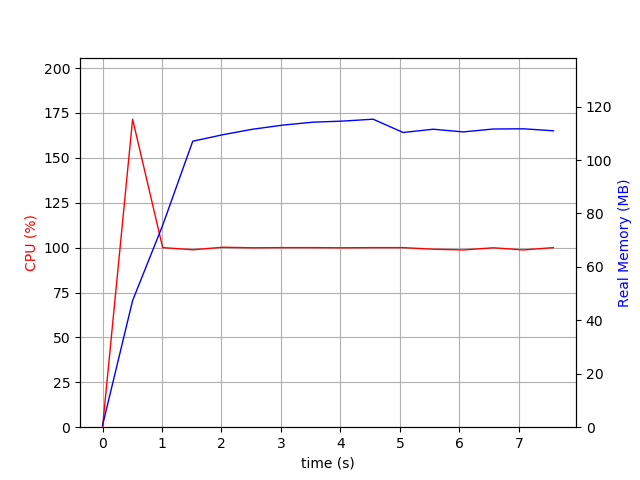
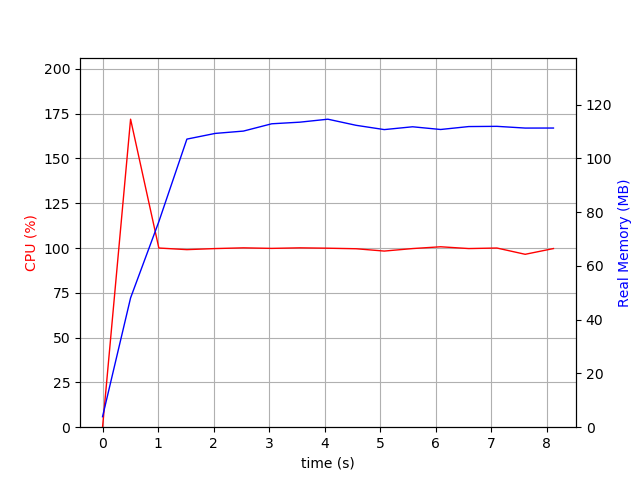
adapt spectrum_1d

diff --git a/benchmarks/spectrum_1d.py b/benchmarks/spectrum_1d.py
@@ -7,9 +7,9 @@ import yaml
 from astropy.coordinates import SkyCoord, Angle
 from regions import CircleSkyRegion
 from gammapy.maps import Map, MapAxis
-from gammapy.modeling import Fit
+from gammapy.modeling import Fit, Datasets
 from gammapy.data import DataStore
-from gammapy.modeling.models import PowerLawSpectralModel
+from gammapy.modeling.models import PowerLawSpectralModel, PointSpatialModel, SkyModel
 from gammapy.spectrum import (
     SpectrumDatasetMaker,
     SpectrumDatasetOnOff,
@@ -57,40 +57,52 @@ def data_prep():
     bkg_maker = ReflectedRegionsBackgroundMaker(exclusion_mask=exclusion_mask)
     safe_mask_masker = SafeMaskMaker(methods=["aeff-max"], aeff_percent=10)
 
+    spectral_model = PowerLawSpectralModel(
+        index=2, amplitude=2e-11 * u.Unit("cm-2 s-1 TeV-1"), reference=1 * u.TeV
+    )
+    spatial_model = PointSpatialModel(
+        lon_0=target_position.ra, lat_0=target_position.dec, frame="icrs"
+    )
+    spatial_model.lon_0.frozen = True
+    spatial_model.lat_0.frozen = True
+
+    sky_model = SkyModel(
+        spatial_model=spatial_model, spectral_model=spectral_model, name=""
+    )
+
     for observation in observations:
         dataset = dataset_maker.run(observation, selection=["counts", "aeff", "edisp"])
         dataset_on_off = bkg_maker.run(dataset, observation)
         dataset_on_off = safe_mask_masker.run(dataset_on_off, observation)
         stacked.stack(dataset_on_off)
-    return stacked
+
+    stacked.model = sky_model
+    return Datasets([stacked])
 
 
-def write(stacked):
-    stacked.to_ogip_files(overwrite=True)
+def write(stacked, filename):
+    stacked.write(path=os.getcwd(), prefix=filename)
 
 
-def read():
-    model = PowerLawSpectralModel(
-        index=2, amplitude=2e-11 * u.Unit("cm-2 s-1 TeV-1"), reference=1 * u.TeV
-    )
-    stacked = SpectrumDatasetOnOff.from_ogip_files(filename="pha_obsstacked.fits")
-    stacked.model = model
-    return stacked
+def read(filename):
+    return Datasets.read(f"{filename}_datasets.yaml", f"{filename}_models.yaml")
 
 
 def data_fit(stacked):
-    fit = Fit([stacked])
+    # Data fitting
+    fit = Fit(stacked)
     result = fit.run(optimize_opts={"print_level": 1})
 
 
 def flux_point(stacked):
     e_edges = MapAxis.from_bounds(0.7, 30, nbin=11, interp="log", unit="TeV").edges
-    fpe = FluxPointsEstimator(datasets=[stacked], e_edges=e_edges)
+    fpe = FluxPointsEstimator(datasets=stacked, e_edges=e_edges)
     fpe.run()
 
 
 def run_benchmark():
     info = {"n_obs": N_OBS}
+    filename = "stacked"
 
     t = time.time()
 
@@ -98,11 +110,11 @@ def run_benchmark():
     info["data_preparation"] = time.time() - t
     t = time.time()
 
-    write(stacked)
+    write(stacked, filename)
     info["writing"] = time.time() - t
     t = time.time()
 
-    stacked = read()
+    stacked = read(filename)
     info["reading"] = time.time() - t
     t = time.time()
 
